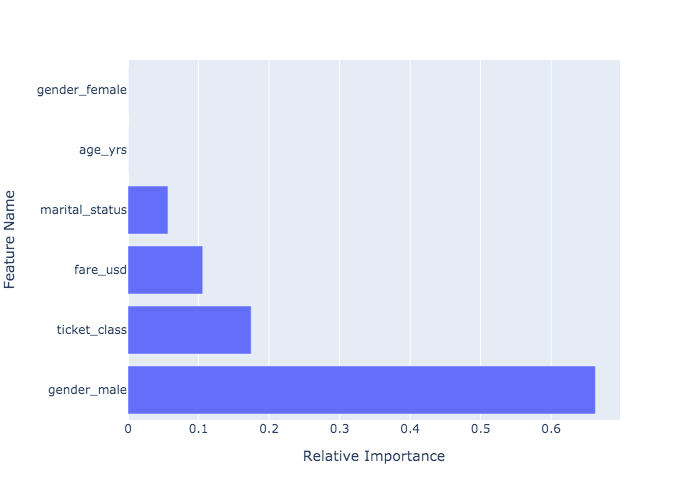
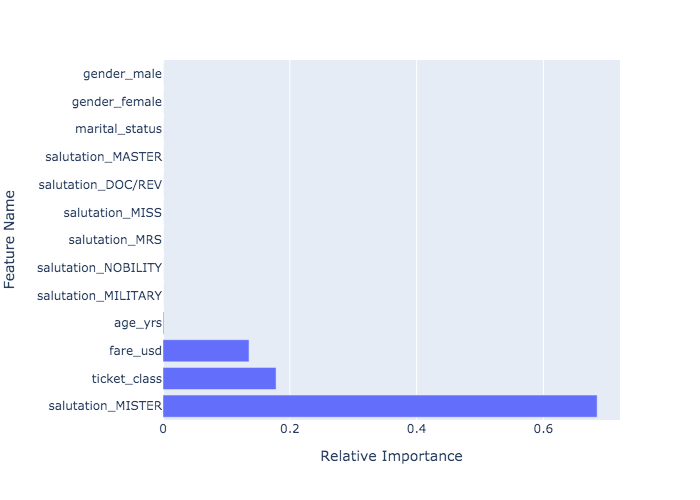
Remove scaler because it doesn't improve accy and without it the decision tree graph becomes more interpretable

Changed region(s): [[0.06, 0.12, 0.87, 0.87], [0.42, 0.9, 0.66, 0.93]]

diff --git a/app/classifier.py b/app/classifier.py
@@ -13,7 +13,7 @@ import plotly.express as px
 from category_encoders import OneHotEncoder # see: https://contrib.scikit-learn.org/categorical-encoding/onehot.html
 from category_encoders import OrdinalEncoder # see: https://contrib.scikit-learn.org/categorical-encoding/ordinal.html
 from sklearn.impute import SimpleImputer # see: https://scikit-learn.org/stable/modules/generated/sklearn.impute.SimpleImputer.html
-from sklearn.preprocessing import StandardScaler # see: https://scikit-learn.org/stable/modules/generated/sklearn.preprocessing.StandardScaler.html
+#from sklearn.preprocessing import StandardScaler # see: https://scikit-learn.org/stable/modules/generated/sklearn.preprocessing.StandardScaler.html
 from sklearn.tree import DecisionTreeClassifier # see: https://scikit-learn.org/stable/modules/generated/sklearn.tree.DecisionTreeClassifier.html
 #from sklearn.ensemble import RandomForestClassifier
 
@@ -42,7 +42,8 @@ LATEST_MODEL_FILEPATH = os.path.join(MODELS_DIR, "latest_model.pkl")
 
 def filter_features(xdf):
     df = xdf.copy().drop(columns=["passenger_id", "full_name", "ticket_id", "cabin_id",
-        "sib_spouse_count", "parent_child_count", "salutation", "embarked_from_port"
+        "sib_spouse_count", "parent_child_count", "embarked_from_port",
+        # "salutation"
     ])
     return df
 
@@ -63,10 +64,10 @@ def train_model():
     print("CONFIGURING SEARCH PARAMETERS...")
 
     pipeline = Pipeline(steps=[
-        ("one_hot", OneHotEncoder(use_cat_names=True, cols=["gender"])),
+        ("one_hot", OneHotEncoder(use_cat_names=True, cols=["gender", "salutation"])),
         ("ordinal", OrdinalEncoder(cols=["ticket_class"], mapping=[{"col": "ticket_class", "mapping": {"UPPER":3, "MIDDLE":2, "LOWER":1}}])),
         ("imputer", SimpleImputer()),
-        ("scaler", StandardScaler()),
+        #("scaler", StandardScaler()),
         ("classifier", DecisionTreeClassifier(random_state=89))
     ])
     print(type(pipeline))

diff --git a/README.md b/README.md
@@ -42,8 +42,6 @@ python -m app.classifier
 
 ## Results
 
-Current Validation Accuracy: 87.1%
-
 Feature Importances:
 
 ![](/reports/feature_importances.png)
